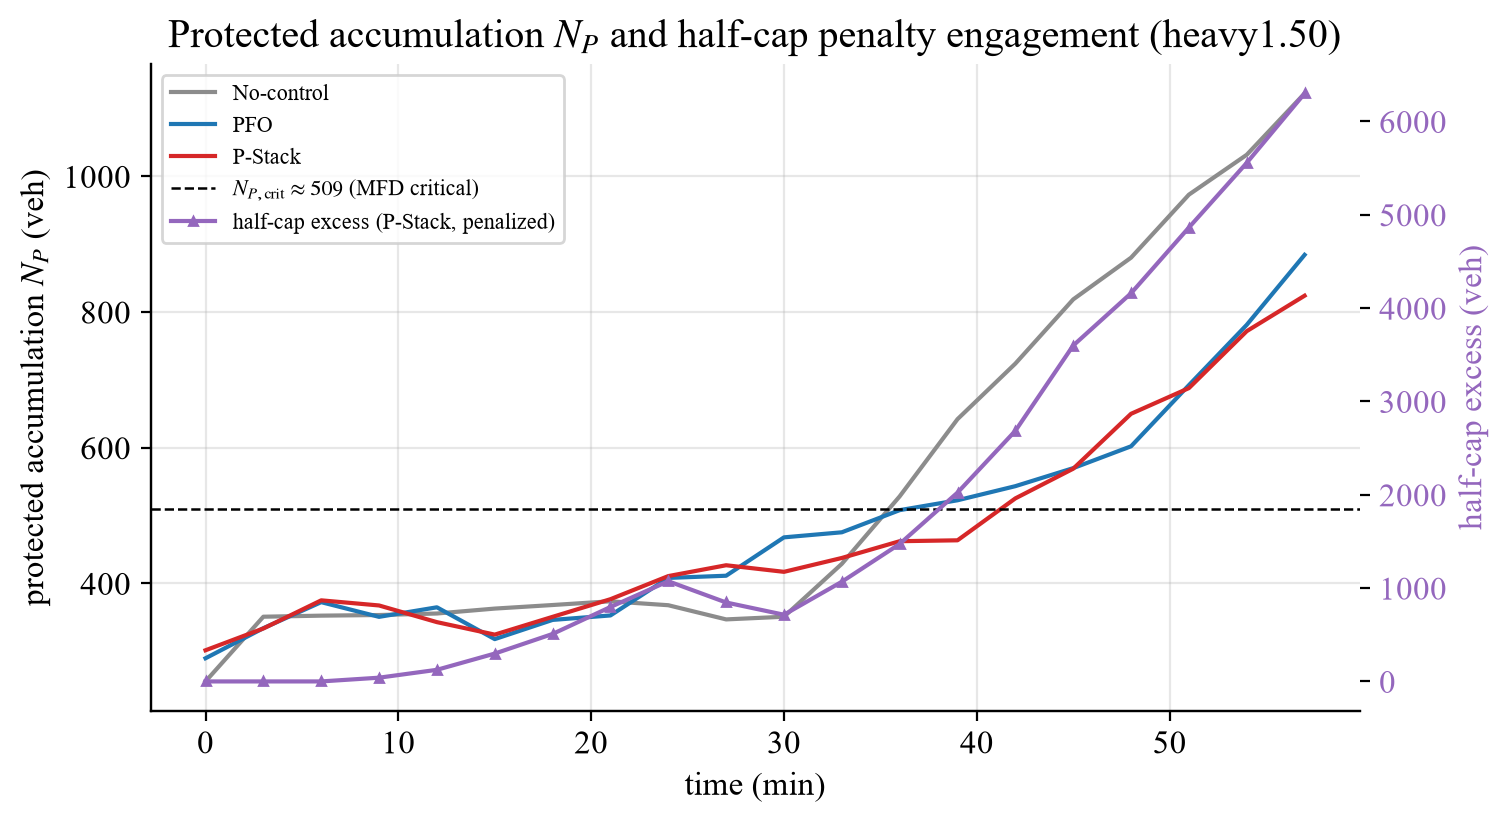
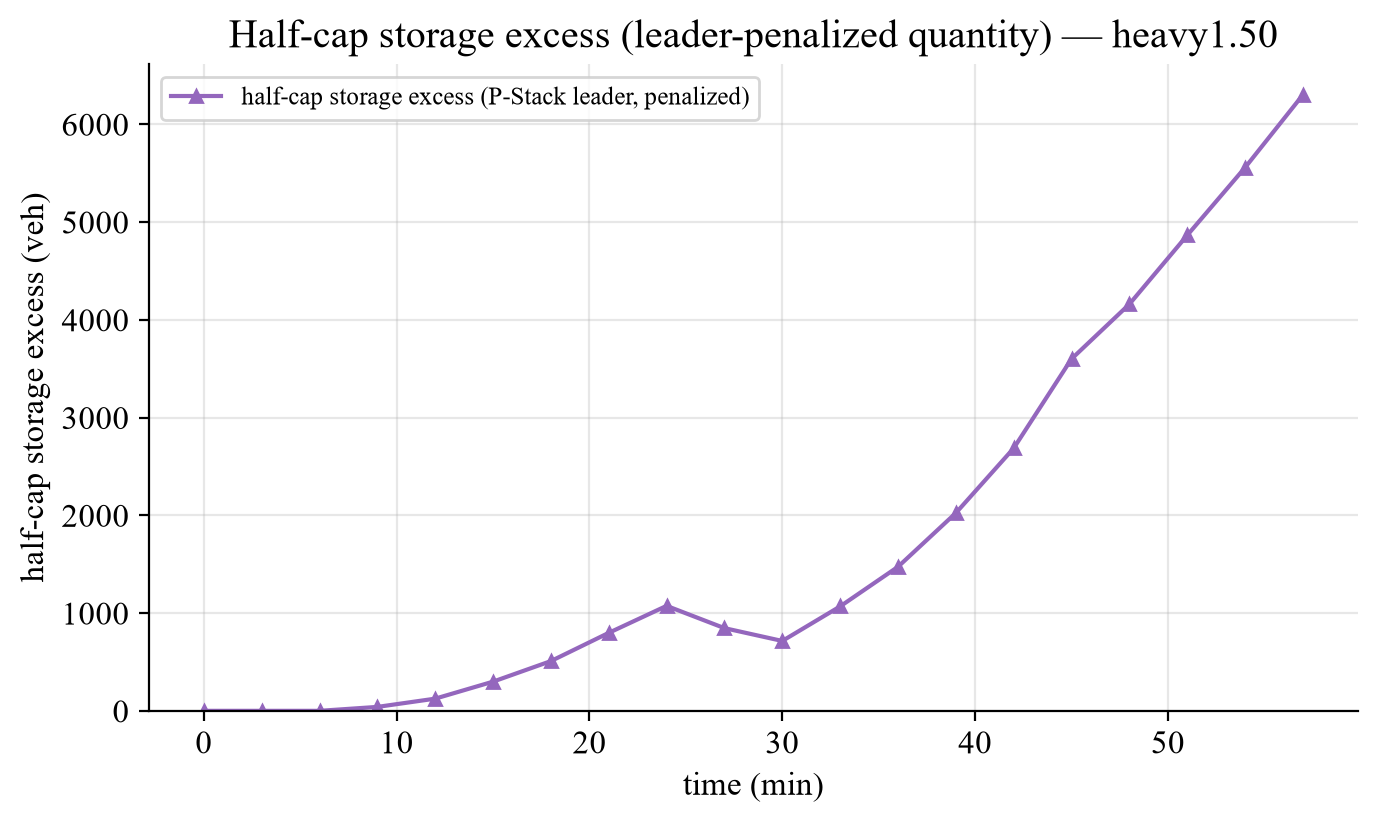
2026-06-24: fig14를 half-cap storage 초과분만으로 재작성
N_P 누적·N_P,crit 참조선 제거(leader가 setpoint로 추종하지 않음). leader가 실제
벌점화하는 half-cap storage 초과분(>=0, P-Stack leader diag)만 단일 축으로 평가.
ylim 하한 0으로 고정해 축 여백이 만드는 가짜 음수 눈금 제거. 리포트 §4.2/그림목록 정합.

diff --git a/2026-06-23/diag_scripts/make_paper_figures_v2.py b/2026-06-23/diag_scripts/make_paper_figures_v2.py
@@ -5,7 +5,6 @@ matplotlib.use("Agg")
 import matplotlib.pyplot as plt
 import numpy as np
 from src.models.state import ExperimentConfig
-from src.models.urban_queue_model import movement_storage_capacity
 from src.models.demand import DemandProfile, load_scenarios, apply_scenario_network_overrides
 
 plt.rcParams.update({
@@ -234,28 +233,21 @@ axB.set_xlabel("time (min)"); axB.set_ylabel("total on-ramp queue (veh)"); axB.s
 fig.suptitle("Network-level (macro) coupling response (heavy1.50)")
 fig.savefig(f"{OUT}/fig13_coupling_macro.png"); plt.close(fig)
 
-# ---- FIG14 accumulation + N_P,crit + half-cap (heavy_150) ----
-off=set(cfg0.network.off_ramp_storage_link.values())
-linkcap=sum(c for l,c in cfg0.network.urban_link_storage_veh.items() if l not in off)
-mvtcap=sum(movement_storage_capacity(cfg0,m,s) for m,s in specs.items() if str(s.get("kind",""))in{"internal","boundary_out","off_ramp"})
-ncrit=cfg0.leader.N_P_crit_veh
-fig,ax1=plt.subplots(figsize=(7.8,4.2))
-for c in ["NO-CONTROL","PROPOSED-FOLLOWERS-ONLY","PROPOSED-STACKELBERG"]:
-    t,acc=stcol("heavy_demand_150",c,"urban_protected_accumulation_veh")
-    if t: ax1.plot(t,acc,label=CLAB[c],color=COL[c])
-ax1.axhline(ncrit,color="k",ls="--",lw=0.9,label=r"$N_{P,\mathrm{crit}}\approx%d$ (MFD critical)"%round(ncrit))
-ax1.set_xlabel("time (min)"); ax1.set_ylabel(r"protected accumulation $N_P$ (veh)")
-# 실제 penalize되는 half-cap excess(요소별 0.5·cap 초과분, P-Stack leader diag)를 twin 축에.
+# ---- FIG14 half-cap storage excess: 실제 penalize되는 양만 (heavy_150) ----
+# N_P 누적은 leader objective가 직접 추종하지 않으므로 제거. leader가 벌점화하는 half-cap
+# storage 초과분(>=0)만 평가한다. 이 양은 leader가 있는 P-Stack에만 존재(no-control은 leader
+# 부재, PFO는 leader objective 부재 -> 이 벌점 항 자체가 없음).
+fig,ax=plt.subplots(figsize=(7.8,4.2))
 dd=ts("heavy_demand_150","PROPOSED-STACKELBERG","decision_diagnostics.csv")
-l2=[]; la2=[]
 if dd and "leader_mfd_storage_excess_veh" in dd[0]:
-    te=[int(float(r["step"]))*3 for r in dd]; ex=[fl(r.get("leader_mfd_storage_excess_veh")) for r in dd]
-    ax2=ax1.twinx(); ax2.grid(False)
-    ax2.plot(te,ex,color="#9467bd",marker="^",ms=3,label="half-cap excess (P-Stack, penalized)")
-    ax2.set_ylabel("half-cap excess (veh)",color="#9467bd"); ax2.tick_params(axis="y",labelcolor="#9467bd")
-    l2,la2=ax2.get_legend_handles_labels()
-l1,la1=ax1.get_legend_handles_labels(); ax1.legend(l1+l2,la1+la2,fontsize=8,loc="upper left")
-ax1.set_title(r"Protected accumulation $N_P$ and half-cap penalty engagement (heavy1.50)")
+    te=[int(float(r["step"]))*3 for r in dd]
+    ex=[fl(r.get("leader_mfd_storage_excess_veh")) for r in dd]
+    ax.plot(te,ex,color="#9467bd",marker="^",ms=4,label="half-cap storage excess (P-Stack leader, penalized)")
+ax.set_ylim(bottom=0)  # 초과분은 >=0; 축 여백이 만드는 가짜 음수 눈금 제거
+ax.set_xlabel("time (min)"); ax.set_ylabel("half-cap storage excess (veh)")
+ax.legend(fontsize=9,loc="upper left")
+ax1=ax  # 아래 공통 마무리 코드 호환
+ax1.set_title("Half-cap storage excess (leader-penalized quantity) — heavy1.50")
 fig.savefig(f"{OUT}/fig14_accumulation.png"); plt.close(fig)
 
 # ---- FIG15 B_sum redistribution under skew ----
@@ -296,5 +288,4 @@ print("=== |green split| at D,F (ramp) vs A,B,C ===")
 for sc in ["skew_heavy"]:
     for c in ["PROPOSED-FOLLOWERS-ONLY","PROPOSED-STACKELBERG"]:
         print(f"  {sc} {CLAB[c]}: DF={mean_green_split(sc,c,['D','F']):.1f}  ABC={mean_green_split(sc,c,['A','B','C']):.1f}")
-print(f"N_P,crit={ncrit:.0f}")
 print("DONE:", len(glob.glob(f"{OUT}/*.png")), "figs")

diff --git a/reports/post_analysis_results_2026-06-23.md b/reports/post_analysis_results_2026-06-23.md
@@ -174,12 +174,16 @@ green 평균은 의미 없다(모든 신호 $g_{p1}+g_{p2}=$ cycle$-$lost로 고
 ### 4.2 Network-level (거시) — 시스템 현상
 
 미시의 "본선 보호용 ramp 적체"가 4 ramp + 경계에서 동시에 일어나면, 거시적으로는 **지연을 본선에서
-ramp/도시 저장부로 옮겨 본선 throughput을 지키는** 현상이 된다(perimeter/MFD 원리 [1,3]). heavy1.50에서
-$N_P$가 $N_{P,\mathrm{crit}}\approx509$를 넘는 ~35분부터 **half-cap penalty(요소별 50 % storage 초과)가 실제로
-engage**(excess 0→6000+, Fig.14) — 즉 고수요대에서 perimeter/MFD 기전이 작동한다.
+ramp/도시 저장부로 옮겨 본선 throughput을 지키는** 현상이 된다(perimeter/MFD 원리 [1,3]). 이를
+leader가 실제로 벌점화하는 양 — **half-cap storage 초과분**(요소별 50 % storage 초과, $\ge 0$) — 으로
+평가한다. heavy1.50에서 이 초과분은 ~36분부터 engage해 6,300 veh까지 단조 증가한다(Fig.14). 즉
+고수요대에서 perimeter/MFD 기전이 작동한다. 이 항은 leader objective를 가진 P-Stack에만 존재한다
+(no-control은 leader 부재, PFO는 leader objective 부재). 참고로 보호영역 누적 $N_P$ 자체는 leader가
+직접 추종하지 않으므로(setpoint 항 off) 그림에서 제외했고, $N_{P,\mathrm{crit}}$은 production-정점
+참조값일 뿐이다.
 
 ![Fig.13 network-level macro coupling](figures/fig13_coupling_macro.png)
-![Fig.14 accumulation & half-cap engagement](figures/fig14_accumulation.png)
+![Fig.14 half-cap storage excess (leader-penalized)](figures/fig14_accumulation.png)
 
 ### 4.3 미시 결합 vs 거시 결합 — 핵심 차이 (PFO↔P-Stack)
 
@@ -257,7 +261,7 @@ equilibrium을 leader가 internalize**하는 Stackelberg 구조의 본질[5].
 | 11 | fig11_ramp_green | 3 | ramp-feeding green 차등 |
 | 12 | fig12_coupling_micro | 4 | ramp-level 미시 결합 |
 | 13 | fig13_coupling_macro | 4 | network-level 거시 결합 |
-| 14 | fig14_accumulation | 4 | $N_P$·$N_{P,\mathrm{crit}}$·half-cap excess |
+| 14 | fig14_accumulation | 4 | half-cap storage 초과분(leader 벌점 양, P-Stack) |
 | 15 | fig15_skew_balance | 4 | skew 하 경계균형 재분배 |
 | 16 | fig16_vsl | 3 | VSL 작동(incident) |
 | 17 | fig17_computation | 5 | 계산비용·real-time 비 |
